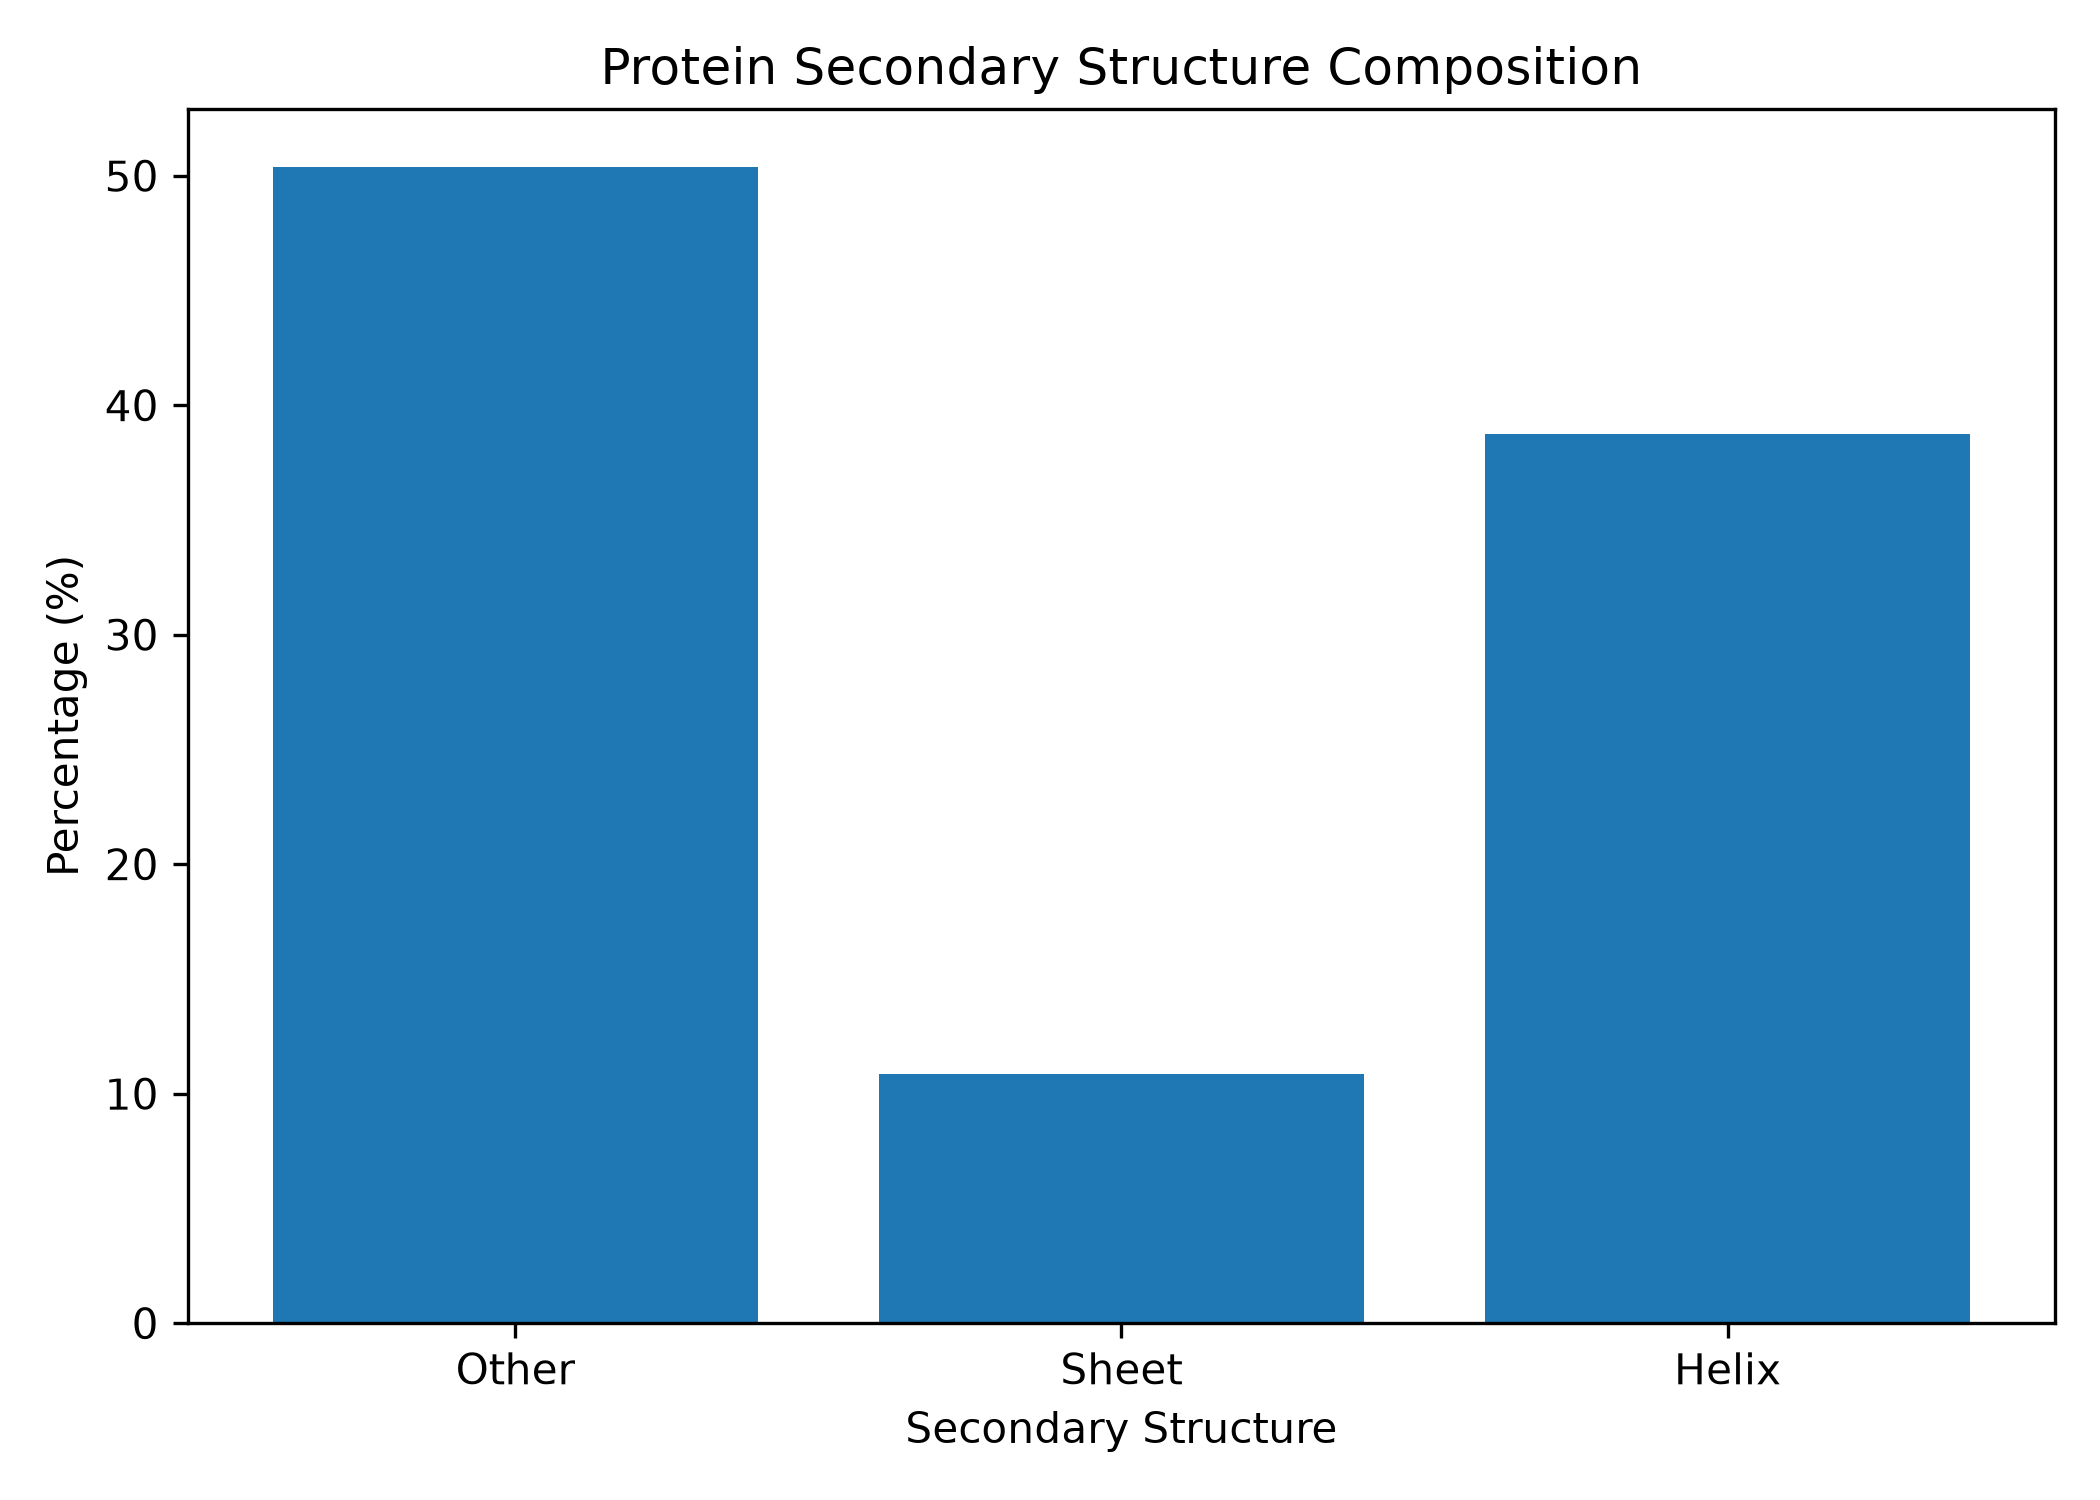
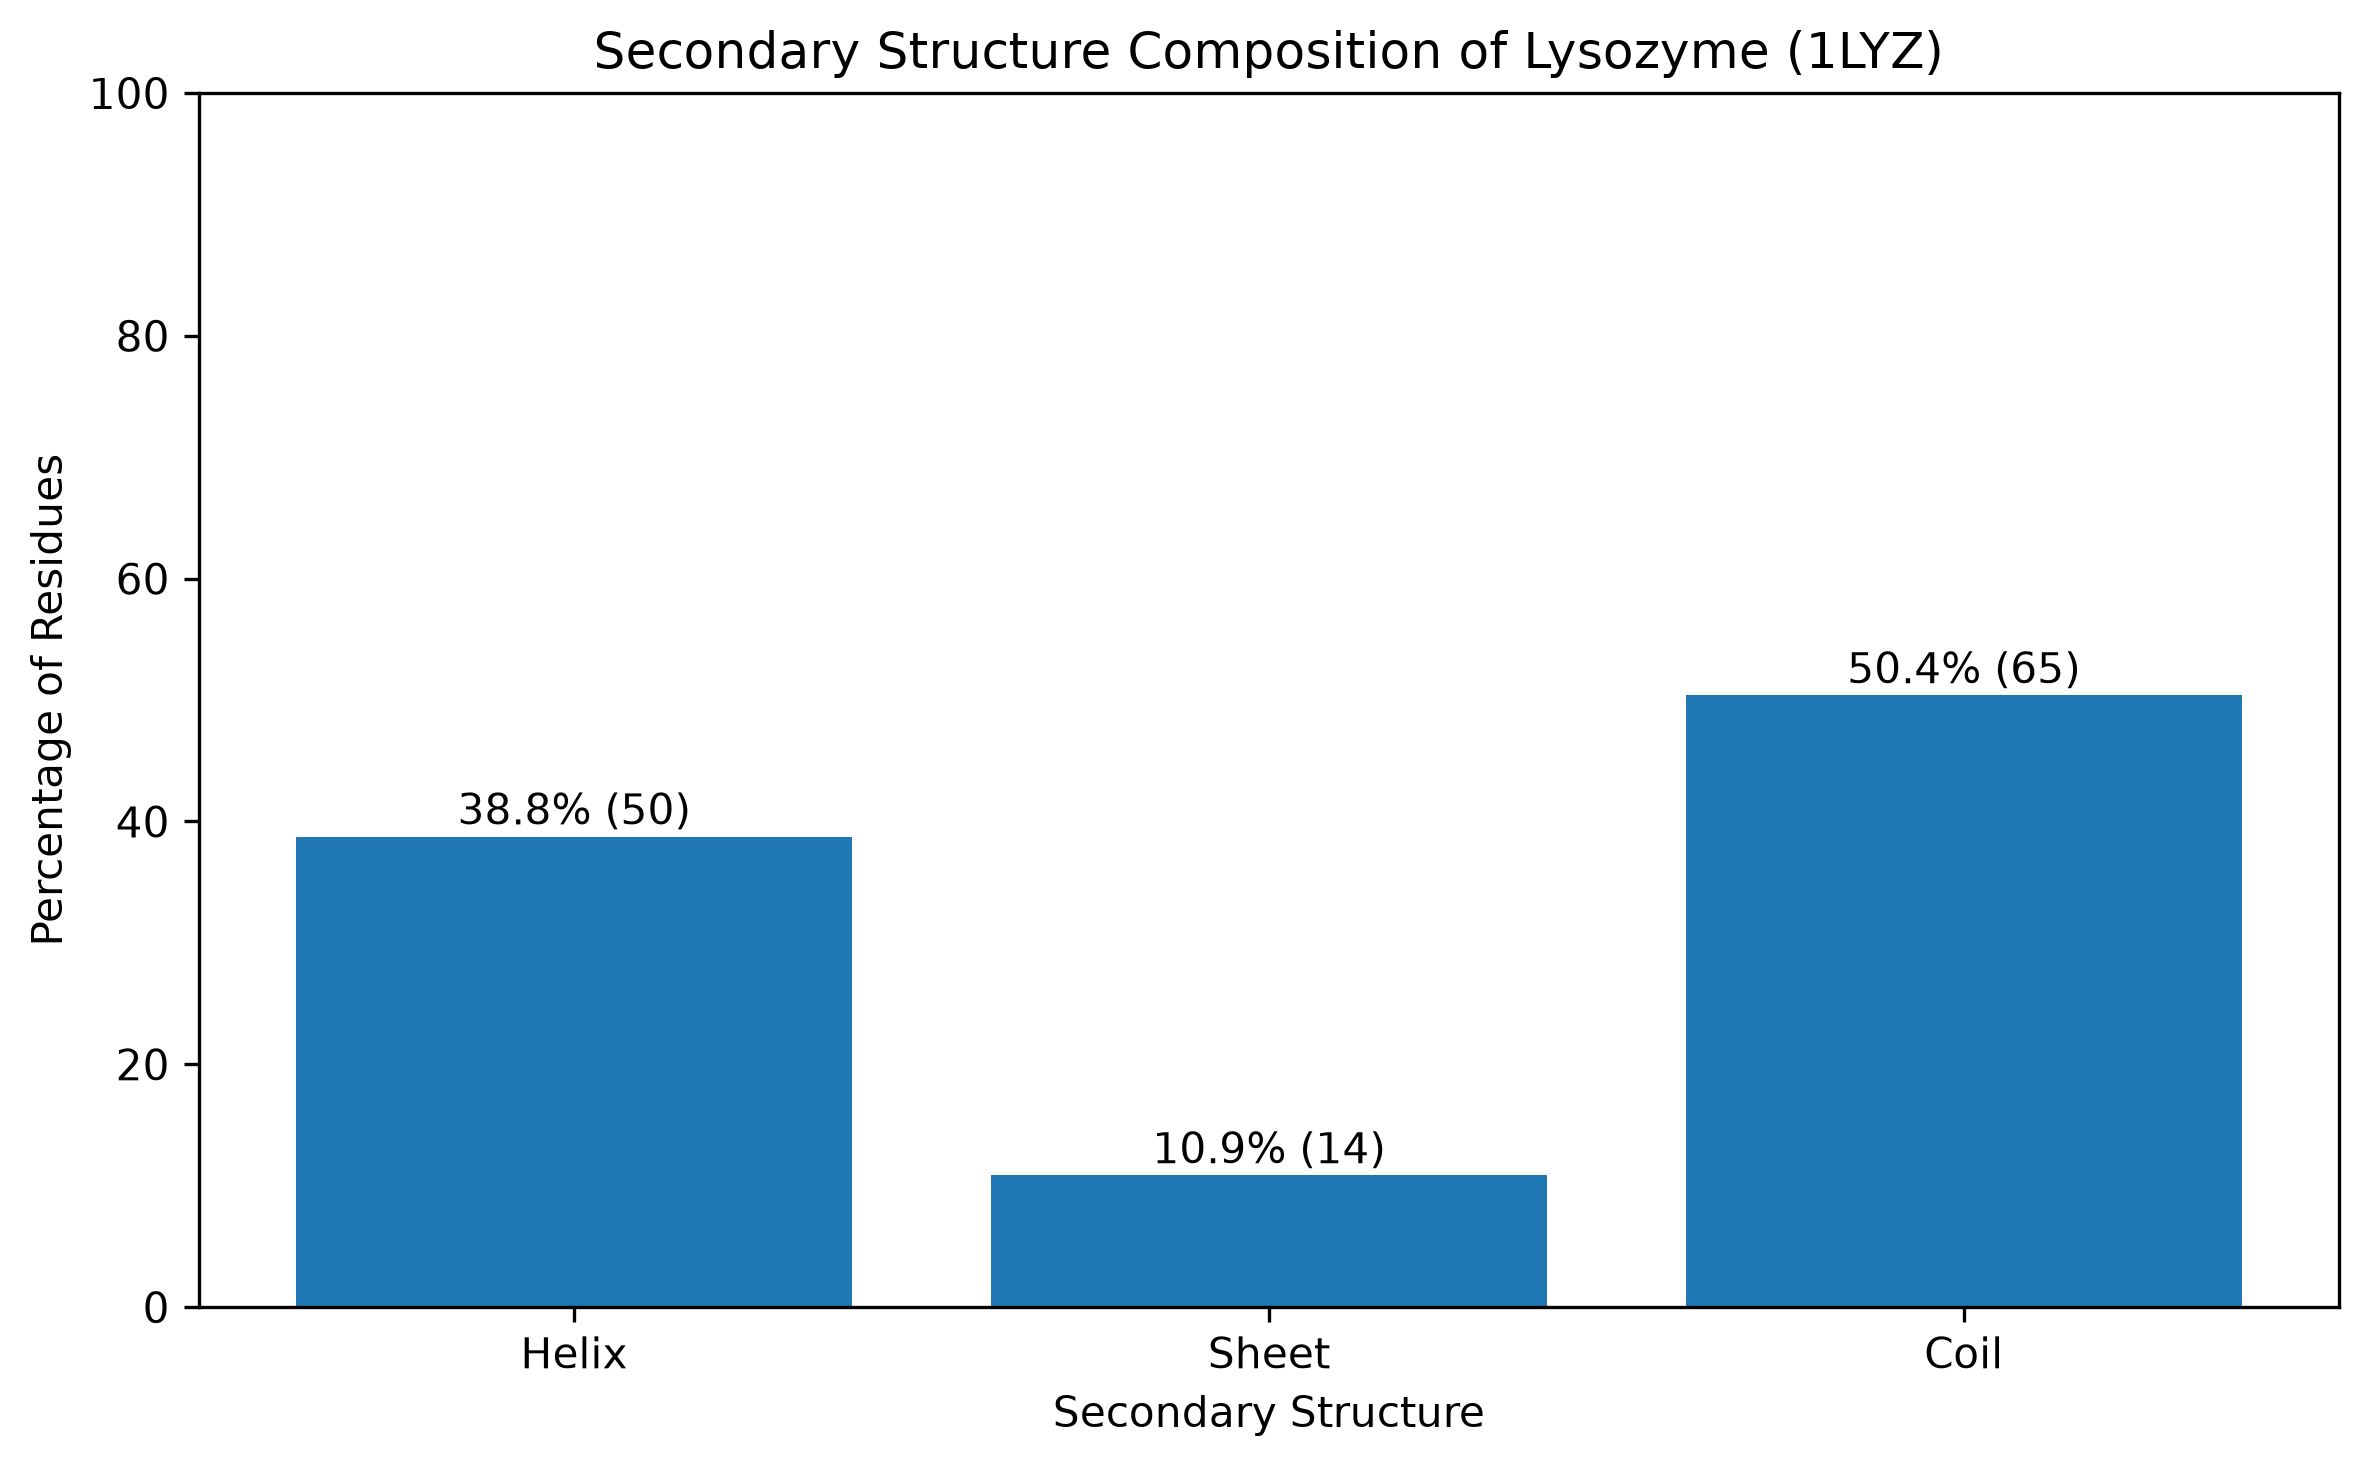
secondary structure

Changed region(s): [[0.0, 0.0, 0.9905, 0.9816], [0.4024, 0.7055, 0.65, 0.8282]]

diff --git a/src/secondary_structure.py b/src/secondary_structure.py
@@ -1,63 +1,37 @@
-from Bio.PDB import PDBParser
-from Bio.PDB.DSSP import DSSP
-from collections import Counter
-
-
-def assign_secondary_structure(file_path):
+from Bio.PDB import PDBParser, DSSP
+def assign_secondary_structure(pdb_file):
 
     parser = PDBParser(QUIET=True)
 
-    structure = parser.get_structure(
-        "protein",
-        file_path
-    )
+    structure = parser.get_structure("protein", pdb_file)
 
     model = structure[0]
 
     dssp = DSSP(
         model,
-        file_path,
+        pdb_file,
         dssp="mkdssp"
     )
 
-    assignments = {}
+    results = []
 
     for key in dssp.keys():
 
         residue_data = dssp[key]
 
+        chain_id = key[0]
+        residue_id = key[1][1]
+
         amino_acid = residue_data[1]
         secondary_structure = residue_data[2]
+        relative_accessibility = residue_data[3]
 
-        assignments[key] = {
+        results.append({
+            "chain": chain_id,
+            "residue_number": residue_id,
             "amino_acid": amino_acid,
-            "secondary_structure": secondary_structure
-        }
+            "secondary_structure": secondary_structure,
+            "relative_accessibility": relative_accessibility
+        })
 
-    return assignments
-
-def calculate_secondary_composition(assignments):
-
-    counts = Counter()
-
-    for residue in assignments.values():
-
-        code = residue["secondary_structure"]
-
-        if code in ["H", "G", "I"]:
-            counts["Helix"] += 1
-
-        elif code in ["E", "B"]:
-            counts["Sheet"] += 1
-
-        else:
-            counts["Other"] += 1
-
-    total = sum(counts.values())
-
-    percentages = {
-        category: (count / total) * 100
-        for category, count in counts.items()
-    }
-
-    return counts, percentages
+    return results

diff --git a/src/secondary_structure_analysis.py b/src/secondary_structure_analysis.py
@@ -1,36 +1,39 @@
-from secondary_structure import (
-    assign_secondary_structure,
-    calculate_secondary_composition
-)
-
-from visualization import plot_secondary_structure
+from collections import Counter
 
 
-def main():
+def calculate_secondary_structure_composition(results):
 
-    assignments = assign_secondary_structure(
-        "data/raw/1LYZ.pdb"
-    )
+    # Extract secondary structure codes
+    structures = [
+        residue["secondary_structure"]
+        for residue in results
+    ]
 
-    counts, percentages = calculate_secondary_composition(
-        assignments
-    )
+    counts = Counter(structures)
 
-    print("\nSECONDARY STRUCTURE COUNTS")
+    # Group DSSP assignments
+    helix = sum(counts[code] for code in "HGI")
+    sheet = sum(counts[code] for code in "EB")
+    coil = sum(counts[code] for code in "TS-")
 
-    for category, count in counts.items():
-        print(category, ":", count)
+    total = len(structures)
 
-    print("\nSECONDARY STRUCTURE PERCENTAGES")
+    if total == 0:
+        raise ValueError("No secondary structure assignments found.")
 
-    for category, percentage in percentages.items():
-        print(category, ":", round(percentage, 2), "%")
+    composition = {
+        "Helix": {
+            "count": helix,
+            "percentage": helix / total * 100
+        },
+        "Sheet": {
+            "count": sheet,
+            "percentage": sheet / total * 100
+        },
+        "Coil": {
+            "count": coil,
+            "percentage": coil / total * 100
+        }
+    }
 
-    plot_secondary_structure(
-        percentages,
-        "results/figures/secondary_structure.png"
-    )
-
-
-if __name__ == "__main__":
-    main()
+    return composition

diff --git a/src/visualization.py b/src/visualization.py
@@ -1,5 +1,6 @@
 import matplotlib.pyplot as plt
 import numpy as np
+from pathlib import Path
 
 def plot_composition(composition, output_path):
 
@@ -95,3 +96,46 @@ def plot_secondary_structure(percentages, output_path):
     plt.savefig(output_path, dpi=300)
 
     plt.show()
+
+def plot_secondary_structure(composition, output_path):
+
+    categories = list(composition.keys())
+
+    percentages = [
+        composition[category]["percentage"]
+        for category in categories
+    ]
+
+    counts = [
+        composition[category]["count"]
+        for category in categories
+    ]
+
+    plt.figure(figsize=(8, 5))
+
+    bars = plt.bar(categories, percentages)
+
+    plt.xlabel("Secondary Structure")
+    plt.ylabel("Percentage of Residues")
+    plt.title("Secondary Structure Composition of Lysozyme (1LYZ)")
+
+    plt.ylim(0, 100)
+    
+    for bar, percentage, count in zip(bars, percentages, counts):
+
+        plt.text(
+            bar.get_x() + bar.get_width() / 2,
+            bar.get_height() + 1,
+            f"{percentage:.1f}% ({count})",
+            ha="center"
+        )
+
+    plt.tight_layout()
+
+    Path(output_path).parent.mkdir(parents=True, exist_ok=True)
+
+    plt.savefig(output_path, dpi=300, bbox_inches="tight")
+
+    plt.show()
+
+    plt.close()

diff --git a/src/main.py b/src/main.py
@@ -7,6 +7,7 @@ from sequence_analysis import (
 )
 from visualization import plot_composition
 from visualization import plot_distance_matrix
+from visualization import plot_secondary_structure
 from structure_analysis import (
     extract_ca_coordinates,
     calculate_distance_matrix,
@@ -14,6 +15,8 @@ from structure_analysis import (
 )
 from backbone_analysis import extract_backbone_angles
 from visualization import plot_ramachandran
+from secondary_structure import assign_secondary_structure
+from secondary_structure_analysis import calculate_secondary_structure_composition
 
 
 def main():
@@ -82,5 +85,26 @@ def main():
         angles,
         "results/figures/ramachandran.png"
     )
+    results = assign_secondary_structure("data/raw/1LYZ.pdb")
+
+    print("\nSECONDARY STRUCTURE RESULTS")
+    composition = calculate_secondary_structure_composition(results)
+
+    print("\nSECONDARY STRUCTURE COMPOSITION")
+
+    for category, values in composition.items():
+        print(
+        f"{category}: {values['count']} residues "
+        f"({values['percentage']:.2f}%)"
+    )
+
+    for residue in results[:10]:
+        print(residue)
+    plot_secondary_structure(
+    composition,
+    "results/figures/secondary_structure.png"
+)
+
+
 if __name__ == "__main__":
  main()

diff --git a/src/sequence_analysis.py b/src/sequence_analysis.py
@@ -1,5 +1,6 @@
 from Bio.SeqUtils import seq1
 from Bio.PDB import is_aa
+from collections import Counter
 
 def extract_sequence(structure):
     sequences={}
@@ -13,7 +14,6 @@ def extract_sequence(structure):
         sequences[chain.id]=sequence
     return sequences
 
-from collections import Counter
 
 def calculate_composition(sequence):
     counts=Counter(sequence)
